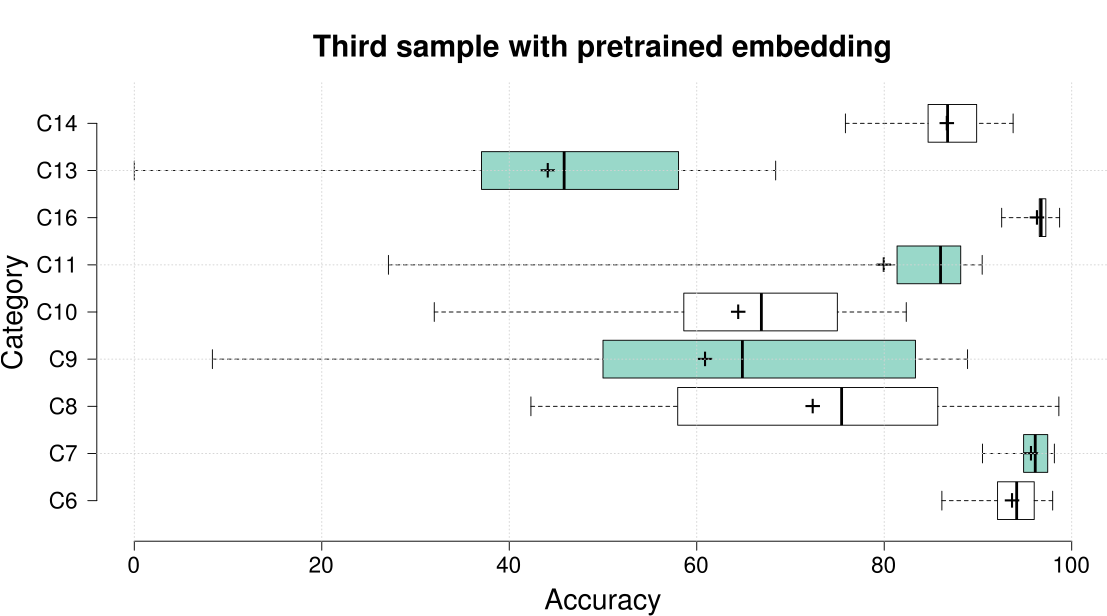
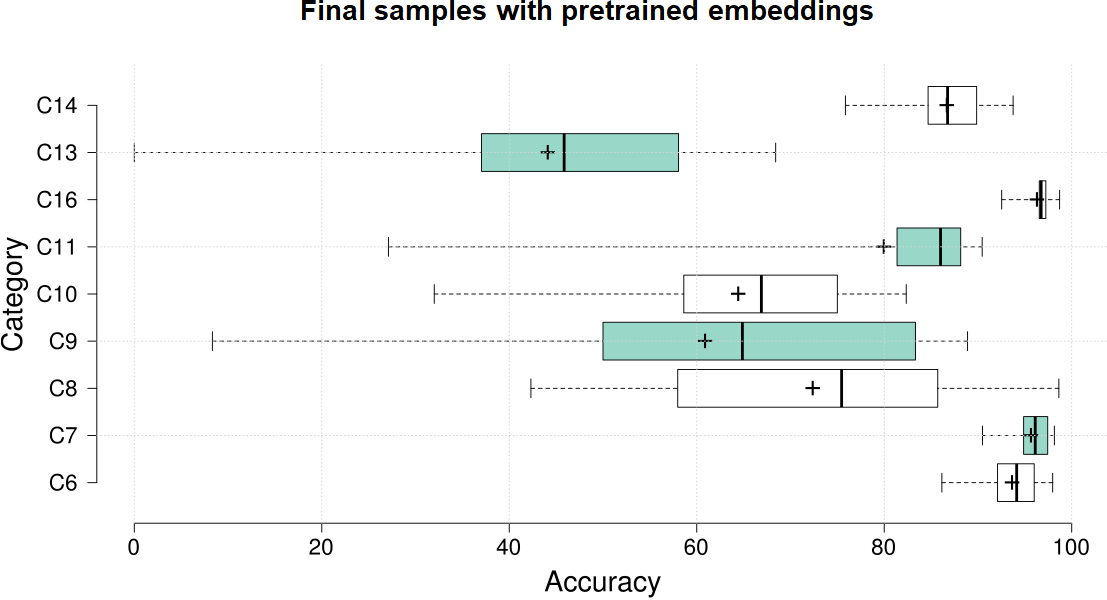
Fix learning data sample names

diff --git a/chapters/evaluation.tex b/chapters/evaluation.tex
@@ -62,7 +62,7 @@ We decided to adopt LeA for the visualization of the pages on the FE.
 \caption{The alias-category lookup for the Figures in Section \ref{classificationEvaluation}.\label{categoryLegend}}
 \end{wraptable}
 
-Four labeled data sets were created as was described in Section \ref{LearningDatasetImplementation}. Ten independent models were trained on each data set. Another ten models were trained with pretrained embeddings on the third samples. The accuracy results of these models are depicted in this section via box plots\footnote{A visual tool for the imaged summarization and comparison of data.} \cite{boxplot}. 
+Four labeled data sets were created as was described in Section \ref{LearningDatasetImplementation}. Ten independent models were trained on each data set. Another ten models were trained with pretrained embeddings on the final samples. The accuracy results of these models are depicted in this section via box plots\footnote{A visual tool for the imaged summarization and comparison of data.} \cite{boxplot}. 
 
 The lower and upper sides of a box in the plot represent the first and the third quartile respectively. The horizontal line inside the box portrays the median. The plus symbol in the box is the mean. The lower and upper whisker ends represent the minimum and maximum values respectively. The name of each box plot corresponds to the utilized training sample data set. Table \ref{categoryLegend} pairs the category shortcuts used in the plots with the actual category names. 
 
@@ -70,7 +70,7 @@ The lower and upper sides of a box in the plot represent the first and the third
     \centering
     \label{CM1Boxplot}
     \includegraphics[width =\textwidth]{Images/CM1Boxplot.png}
-    \caption{The accuracy per category of the models trained on the first sample. The median of several categories of the first samples were below 70\%. The dispersion was often over 50\%. The individual key values of this plot are detailed in Table \ref{CM1BoxplotValues}.}
+    \caption{The accuracy per category of the models trained on the first samples. The median of several categories of the first samples were below 70\%. The dispersion was often over 50\%. The individual key values of this plot are detailed in Table \ref{CM1BoxplotValues}.}
     \label{CM1Boxplot}
 \end{figure}
 
@@ -78,7 +78,7 @@ The lower and upper sides of a box in the plot represent the first and the third
  \begin{figure}[]
     \centering
     \includegraphics[width =\textwidth]{Images/CM2Boxplot.png}
-    \caption{The accuracy per category of the models trained on the second sample. The median of most categories was over 65\%. The dispersion was lowered. The individual key values of this plot are detailed in Table \ref{CM2BoxplotValues}.}
+    \caption{The accuracy per category of the models trained on the enhanced samples. The median of most categories was over 65\%. The dispersion was lowered. The individual key values of this plot are detailed in Table \ref{CM2BoxplotValues}.}
     \label{CM2Boxplot}
 \end{figure}
 
@@ -86,26 +86,26 @@ The lower and upper sides of a box in the plot represent the first and the third
  \begin{minipage}[t]{\textwidth}
     \centering
     \includegraphics[width =\textwidth]{Images/CM3Boxplot.png}
-    \caption{The accuracy per category of the models trained on the third sample. The dispersion was low compared to the results in second samples. The individual key values of this plot are detailed in Table \ref{CM3BoxplotValues}.}
+    \caption{The accuracy per category of the models trained on the final samples. The dispersion was low compared to the results in the enhanced samples. The individual key values of this plot are detailed in Table \ref{CM3BoxplotValues}.}
     \label{CM3Boxplot}
 \end{minipage}
 
  \begin{minipage}[b]{\textwidth}
     \centering
     \includegraphics[width =\textwidth]{Images/CM3EmbeddingsBoxplot.png}
-    \caption{The accuracy per category of the models trained on the third sample with pretrained embeddings. The maximums and the third quartiles were better compared to the third samples without pretrained embeddings. However, the dispersion of the results was comparatively as bad as in the results with the first sample. The individual key values of this plot are detailed in Table \ref{CM3EmbeddingsBoxplotValues}.}
+    \caption{The accuracy per category of the models trained on the final samples with pretrained embeddings. The maximums and the third quartiles were better compared to the final samples without pretrained embeddings. However, the dispersion of the results was comparatively as bad as in the results with the first samples. The individual key values of this plot are detailed in Table \ref{CM3EmbeddingsBoxplotValues}.}
     \label{CM3EmbeddingsBoxplot}
 \end{minipage}
 \end{figure} \hfill
 
  \begin{figure}[t]
     \includegraphics[width =\textwidth]{Images/DSsBoxplot.png}
-    \caption{The overall accuracy of the models trained on the dataset samples described in Section \ref{LearningDatasetImplementation}. The data set \textit{Third sample E} stands for the training on the third sample with pretrained embeddings. The individual key values of box plots are detailed in Table \ref{DSsBoxplotValues} }
+    \caption{The overall accuracy of the models trained on the dataset samples described in Section \ref{LearningDatasetImplementation}. The data set \textit{Final samples E} stands for the training on the final samples with pretrained embeddings. The individual key values of box plots are detailed in Table \ref{DSsBoxplotValues} }
     \label{DSsBoxplot}
 \end{figure}
 
 \FloatBarrier
-The learning data set used for the model training was the third sample. The final model utilized in the BE for the categorization of the pages achieved 88.2\% accuracy. We compared these results to two other projects both from the year 2017. The ATOL \cite{atol} classification tool scored an accuracy of 96.4\%. ATOL was used for the categorization of the dark web into 3 categories - drugs, hacker, weapons. The learning data set contained 529 sites. 
+The learning data set used for the model training was the final samples. The final model utilized in the BE for the categorization of the pages achieved 88.2\% accuracy. We compared these results to two other projects both from the year 2017. The ATOL \cite{atol} classification tool scored an accuracy of 96.4\%. ATOL was used for the categorization of the dark web into 3 categories - drugs, hacker, weapons. The learning data set contained 529 sites. 
 
 The second classifying tool \cite{classificationProject} we compared our results to accomplished an accuracy of 96.6\%. This tool classified the data into 9 categories. The learing approach chosen was SLr. The learning data set contained 6831 pages. 
 

diff --git a/chapters/appendix.tex b/chapters/appendix.tex
@@ -43,7 +43,7 @@ We detail the statistical values of the accuracy results of the trained models d
 \bottomrule
 \end{tabular}
 }
-\caption{The statistical values of training on the first sample. The visualization is shown in Figure \ref{CM1Boxplot}.}
+\caption{The statistical values of training on the first samples. The visualization is shown in Figure \ref{CM1Boxplot}.}
 \label{CM1BoxplotValues}
 \end{table}
 
@@ -78,7 +78,7 @@ We detail the statistical values of the accuracy results of the trained models d
 \bottomrule
 \end{tabular}
 }
-\caption{The statistical values of training on the second sample.  The visualization is portrayed in Figure \ref{CM2Boxplot}.}
+\caption{The statistical values of training on the enhanced samples.  The visualization is portrayed in Figure \ref{CM2Boxplot}.}
 \label{CM2BoxplotValues}
 \end{table}
 
@@ -111,7 +111,7 @@ We detail the statistical values of the accuracy results of the trained models d
 \bottomrule
 \end{tabular}
 }
-\caption{The statistical accuracy values of training on the third sample. The portrayal is depicted in Figure \ref{CM3Boxplot}.}
+\caption{The statistical accuracy values of training on the final samples. The portrayal is depicted in Figure \ref{CM3Boxplot}.}
 \label{CM3BoxplotValues}
 \end{table}
 
@@ -144,26 +144,26 @@ We detail the statistical values of the accuracy results of the trained models d
 \bottomrule
 \end{tabular}
 }
-\caption{The statistical accuracy values of training on the third sample with pretrained embeddings. The visualization is shown in Figure \ref{CM3EmbeddingsBoxplot}.}
+\caption{The statistical accuracy values of training on the final samples with pretrained embeddings. The visualization is shown in Figure \ref{CM3EmbeddingsBoxplot}.}
 \label{CM3EmbeddingsBoxplotValues}
 \end{table}
 
 \begin{table}[]
 \centering
-\scalebox{0.90}{
+\scalebox{0.83}{
 \begin{tabular}{@{}c|cccccc@{}}
  \toprule
 \rowcolor[HTML]{EEF9FB} 
 {\color[HTML]{000000} \textbf{\begin{tabular}[c]{@{}c@{}}\rowcolor[HTML]{EEF9FB} Plot\\\rowcolor[HTML]{EEF9FB}  values\end{tabular}}} & {\color[HTML]{000000} \textbf{\begin{tabular}[c]{@{}c@{}}\rowcolor[HTML]{EEF9FB} Upper\\ \rowcolor[HTML]{EEF9FB} whisker\end{tabular}}} & {\color[HTML]{000000} \textbf{\begin{tabular}[c]{@{}c@{}}\rowcolor[HTML]{EEF9FB} 3rd \\ \rowcolor[HTML]{EEF9FB} quartile\end{tabular}}} & {\color[HTML]{000000} \textbf{Median}} & {\color[HTML]{000000} \textbf{\begin{tabular}[c]{@{}c@{}}\rowcolor[HTML]{EEF9FB} 1st \\ \rowcolor[HTML]{EEF9FB} quartile\end{tabular}}} & {\color[HTML]{000000} \textbf{\begin{tabular}[c]{@{}c@{}}\rowcolor[HTML]{EEF9FB} Lower\\ \rowcolor[HTML]{EEF9FB} whisker\end{tabular}}} & {\color[HTML]{000000} \textbf{Mean}} \\ 
 \midrule
 \rowcolor[HTML]{DAE8E5} 
-\textbf{1st sample} & 86.11 & 85.38 & 84.77 & 82.22 & 76.98 & 83.65 \\
+\textbf{first samples} & 86.11 & 85.38 & 84.77 & 82.22 & 76.98 & 83.65 \\
 \rowcolor[HTML]{EEF9FB} 
-\textbf{2nd sample} & 86.69 & 85.76 & 85.01 & 81.25 & 77.78 & 83.81 \\
+\textbf{enhanced samples} & 86.69 & 85.76 & 85.01 & 81.25 & 77.78 & 83.81 \\
 \rowcolor[HTML]{DAE8E5} 
-\textbf{3rd sample} & 88.19 & 87.73 & 86.86 & 85.88 & 81.37 & 86.41 \\
+\textbf{final samples} & 88.19 & 87.73 & 86.86 & 85.88 & 81.37 & 86.41 \\
 \rowcolor[HTML]{EEF9FB} 
-\textbf{3rd sample E} & 89.24 & 88.54 & 86.11 & 84.95 & 72.69 & 85.41 \\
+\textbf{final samples E} & 89.24 & 88.54 & 86.11 & 84.95 & 72.69 & 85.41 \\
 \bottomrule
 \end{tabular}
 }
